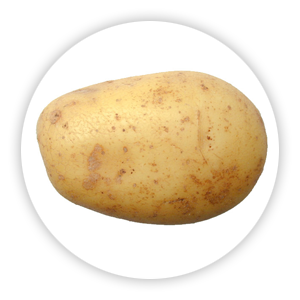
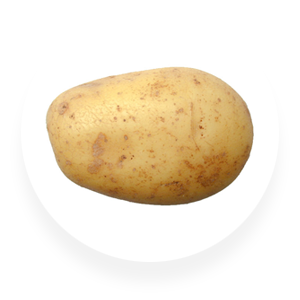
added pics to items

diff --git a/app/static/js/shopping/shopping.html b/app/static/js/shopping/shopping.html
@@ -1,45 +1,28 @@
-
 <section id="shopping" class="middle-section">
-<div class="container">
-    
-
-
-
-    <h2>my list</h2>
-
-    <ul class="list-group">
-        <li class="list-group-item" ng-repeat="shopping in shoppingCtrl.shoppingList" ng-if="shopping.amount != 0">
-            {{shopping.product}}
-            <span class="badge">{{shopping.amount}}</span>
-        </li>
-    </ul>
-    
-    
-    
-    
-    <h2>available products</h2>
-
-    <ul>
-        <li ng-repeat="(id, product) in shoppingCtrl.products">
-            {{product}}
-            <img src={{"img/" + product + ".png"}} >
+   <div class="container">
+      <h2>available products</h2>
+      <ul>
+         <div class="col col-md-4 col-xs-6" ng-repeat="(id, product) in shoppingCtrl.products">
+            <!--{{product}}-->
+            <img src="{{'img/' + product + '.png'}}" width="150px">
             <button class="btn btn-default" ng-click="shoppingCtrl.decrease(product, id)">
-                <span class="glyphicon glyphicon-minus" aria-hidden="true"></span>
+            <span class="glyphicon glyphicon-minus" aria-hidden="true"></span>
             </button><button class="btn btn-default" ng-click="shoppingCtrl.increase(product, id)">
             <span class="glyphicon glyphicon-plus" aria-hidden="true"></span>
-        </button>
-        </li>
-
-    </ul>
-
-
-
-
-
-
-    <button class="btn btn-default" ng-click="shoppingCtrl.finish()">
-        Bestätigen
-    </button>
-
-</div>
+            </button>
+         </div>
+      </ul>
+    </div>
+    <div class="container top-section">
+      <h2>my list</h2>
+      <ul class="list-group">
+         <li class="list-group-item" ng-repeat="shopping in shoppingCtrl.shoppingList" ng-if="shopping.amount != 0">
+            {{shopping.product}}
+            <span class="badge">{{shopping.amount}}</span>
+         </li>
+      </ul>
+      <button class="btn btn-default" ng-click="shoppingCtrl.finish()">
+      Bestätigen
+      </button>
+   </div>
 </section>
